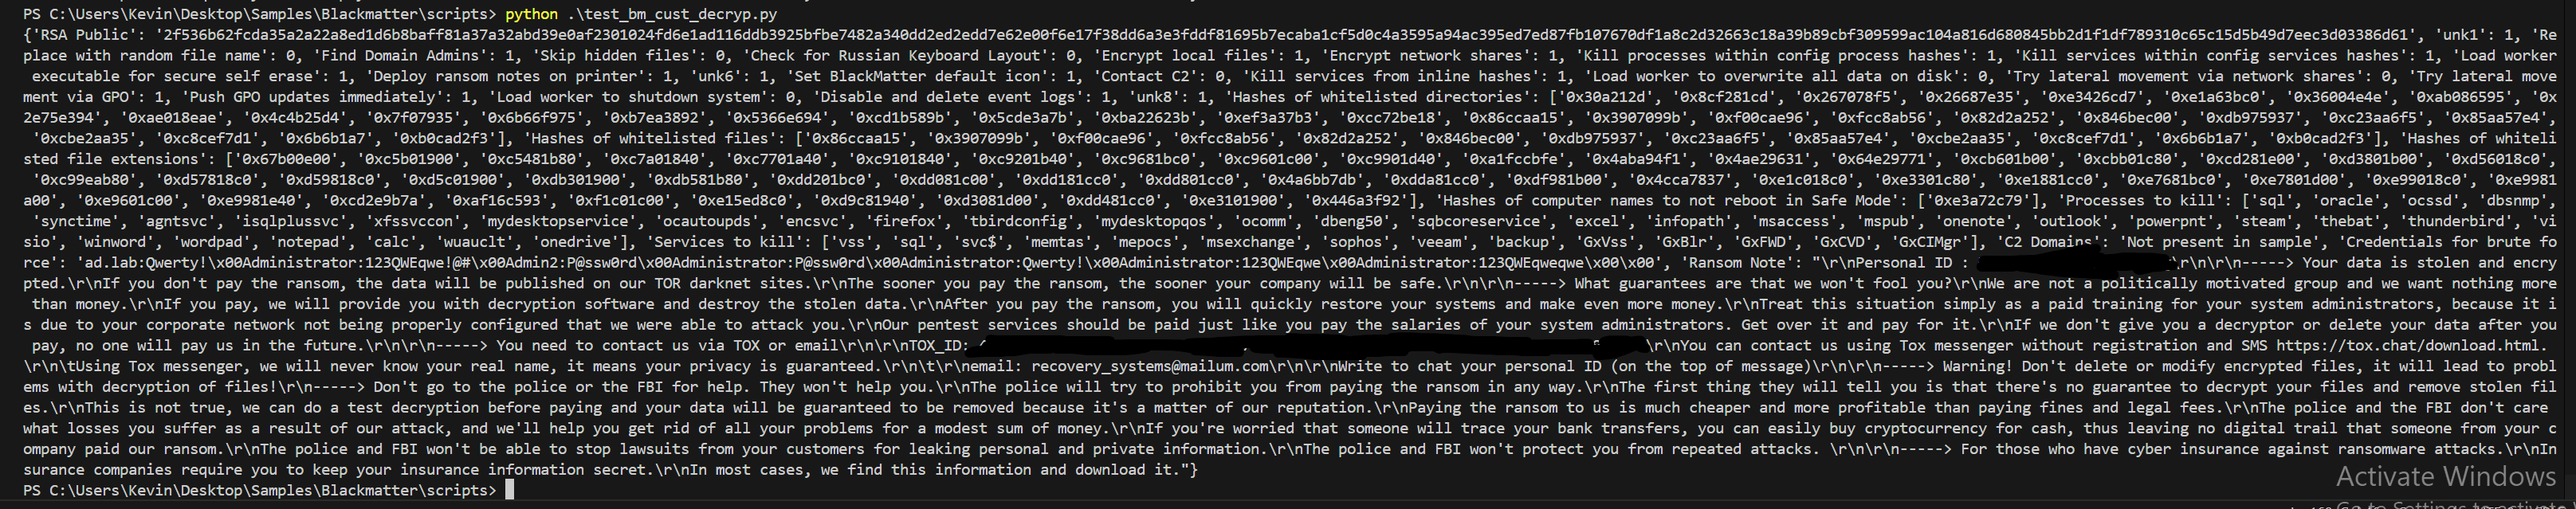
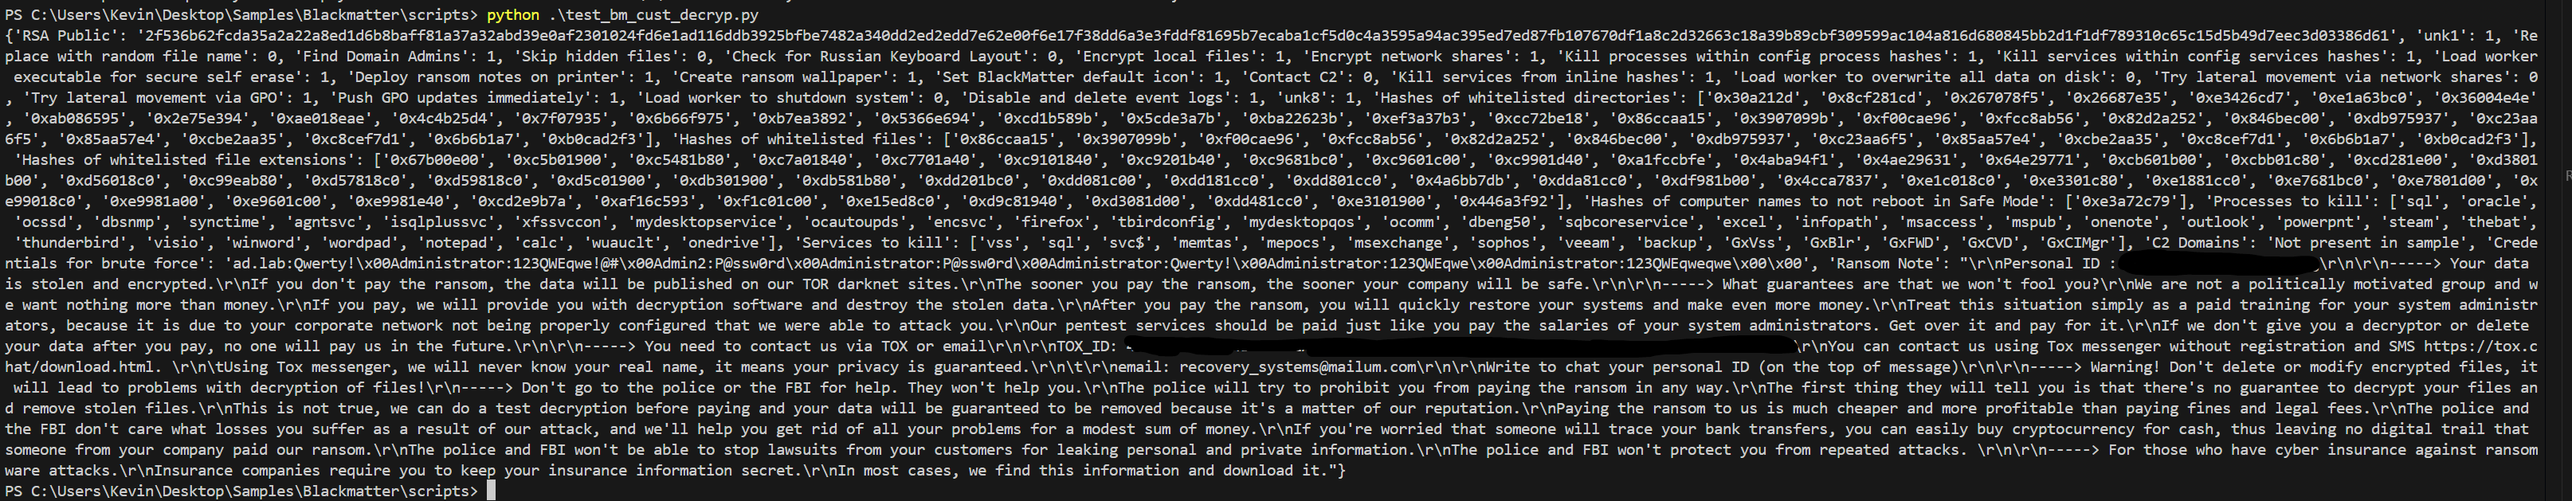
added flags

diff --git a/blackmatterdecryptor/decryptor.py b/blackmatterdecryptor/decryptor.py
@@ -133,7 +133,7 @@ class BlackMatterDecryptor():
             'Kill services within config services hashes' : self.decrypted_main_config[168],
             'Load worker executable for secure self erase' : self.decrypted_main_config[169],
             'Deploy ransom notes on printer' : self.decrypted_main_config[170],
-            'unk6' : self.decrypted_main_config[171],
+            'Create ransom wallpaper' : self.decrypted_main_config[171],
             'Set BlackMatter default icon' : self.decrypted_main_config[172],
             'Contact C2' : self.decrypted_main_config[173],
             'Load worker executable for secure self erase' : self.decrypted_main_config[174],
@@ -264,10 +264,3 @@ class BlackMatterDecryptor():
             chunks.append(''.join(current))
         strings_list = [s for s in chunks[0].split('\x00') if s]
         return strings_list
-        
-
-
-if __name__ == "__main__":
-    fpath = r"C:\Users\Kevin\Desktop\Samples\Blackmatter\374f9df39b92ccccae8a9b747e606aebe0ddaf117f8f6450052efb5160c99368\374f9df39b92ccccae8a9b747e606aebe0ddaf117f8f6450052efb5160c99368.bin"
-    bm = BlackMatterDecryptor(fpath)
-    bm.decrypt_config()
